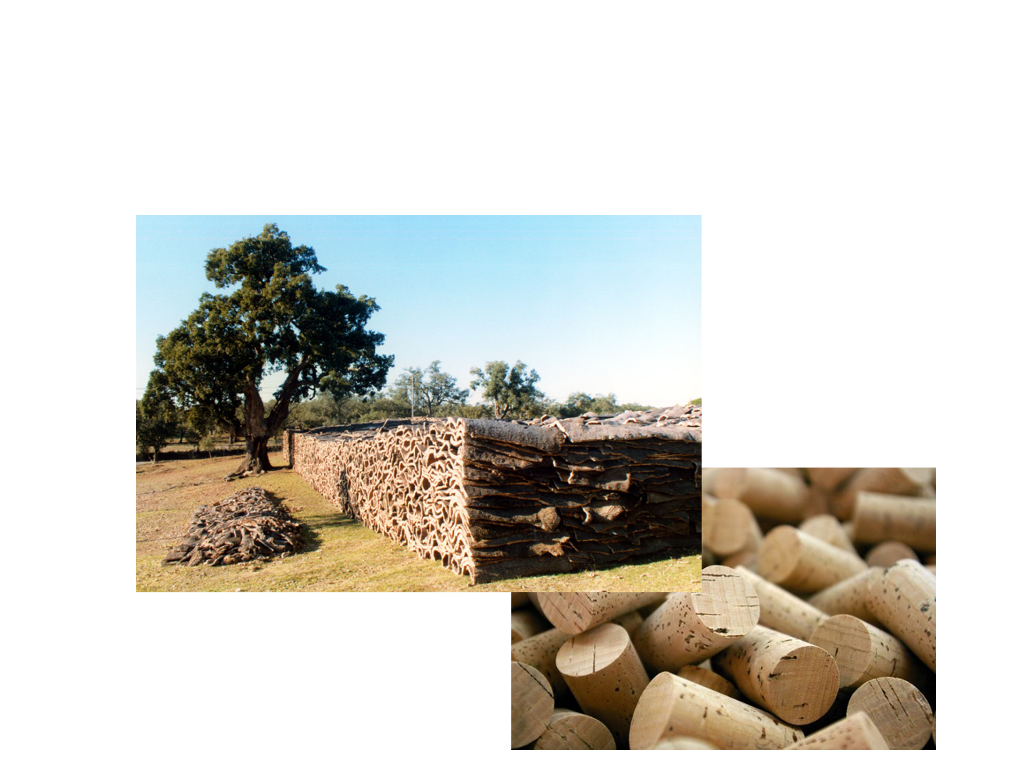
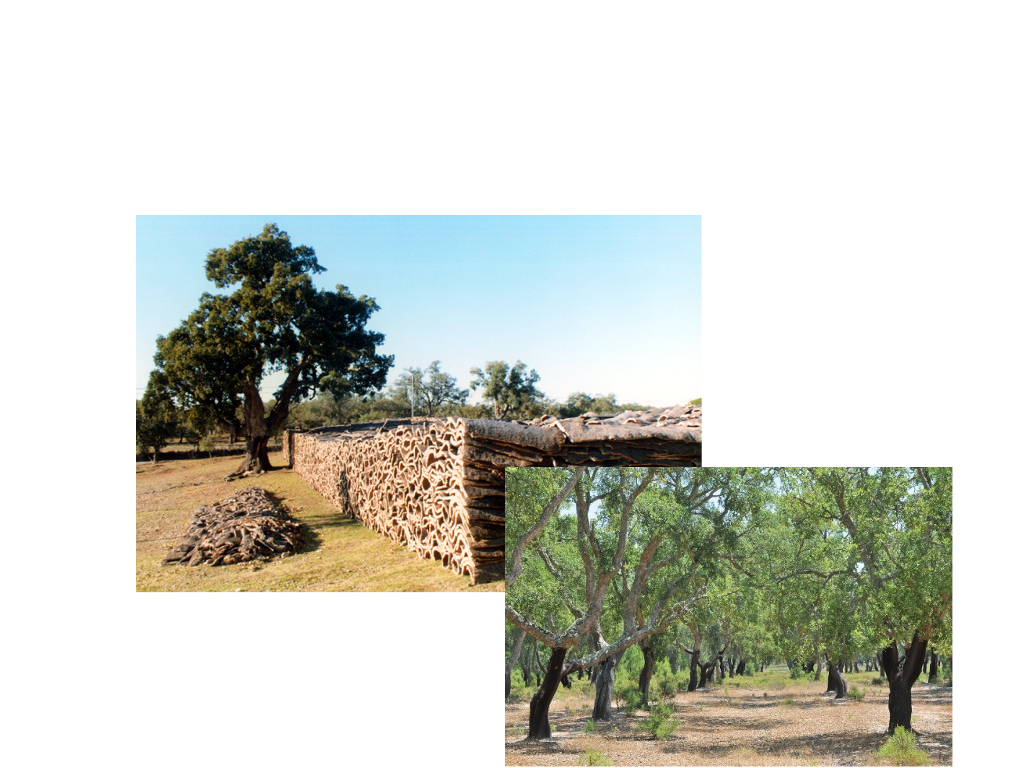
Switched some images and created some links.

Changed region(s): [[0.4688, 0.5938, 0.9375, 1.0]]

diff --git a/docs/index.html b/docs/index.html
@@ -312,7 +312,7 @@
             <header><h1><em>Quercus suber</em>, the cork oak</h1></header>
             
             
-            <section><p><img alt="hot" src="assets/hot_summer.jpg" /></p>
+            <section><p><img alt="hot" src="assets/Qsuber_chefchauen.jpg" /></p>
 </section>
             
           </div>
@@ -343,7 +343,7 @@
             <header><h1><em>Quercus suber</em>, the cork oak</h1></header>
             
             
-            <section><p><img alt="dist-map" src="assets/cold_winter.jpg" /></p>
+            <section><p><img alt="dist-map" src="assets/Qsuber_landes.jpg" /></p>
 </section>
             
           </div>
@@ -976,7 +976,7 @@
 <li>Hardly any genomic resources<ul>
 <li>No reference genome</li>
 <li>Few GenBank resources (591 "cds" records)<ul>
-<li>460 of which are from a paper from our group</li>
+<li>460 of which are from a <a href="http://link.springer.com/article/10.1007/s11295-014-0786-1">paper from our group</a></li>
 </ul>
 </li>
 </ul>
@@ -1016,7 +1016,7 @@
 <li>Hardly any genomic resources<ul>
 <li>No reference genome</li>
 <li>Few GenBank resources (591 "cds" records)<ul>
-<li>460 of which are from a paper from our group</li>
+<li>460 of which are from a <a href="http://link.springer.com/article/10.1007/s11295-014-0786-1">paper from our group</a></li>
 </ul>
 </li>
 <li>Very few annotations</li>

diff --git a/docs/BOD2017.md b/docs/BOD2017.md
@@ -77,7 +77,7 @@
 
 #*Quercus suber*, the cork oak
 
-![hot](assets/hot_summer.jpg)
+![hot](assets/Qsuber_chefchauen.jpg)
 
 .fx: imageslide alt_background
 
@@ -85,7 +85,7 @@
 
 #*Quercus suber*, the cork oak
 
-![dist-map](assets/cold_winter.jpg)
+![dist-map](assets/Qsuber_landes.jpg)
 
 .fx: imageslide alt_background
 
@@ -274,7 +274,7 @@
 * Hardly any genomic resources
     * No reference genome
     * Few GenBank resources (591 "cds" records)
-        * 460 of which are from a paper from our group
+        * 460 of which are from a [paper from our group](http://link.springer.com/article/10.1007/s11295-014-0786-1)
 
 .fx: alt_background
 
@@ -285,7 +285,7 @@
 * Hardly any genomic resources
     * No reference genome
     * Few GenBank resources (591 "cds" records)
-        * 460 of which are from a paper from our group
+        * 460 of which are from a [paper from our group](http://link.springer.com/article/10.1007/s11295-014-0786-1)
     * Very few annotations
 
 .fx: alt_background
